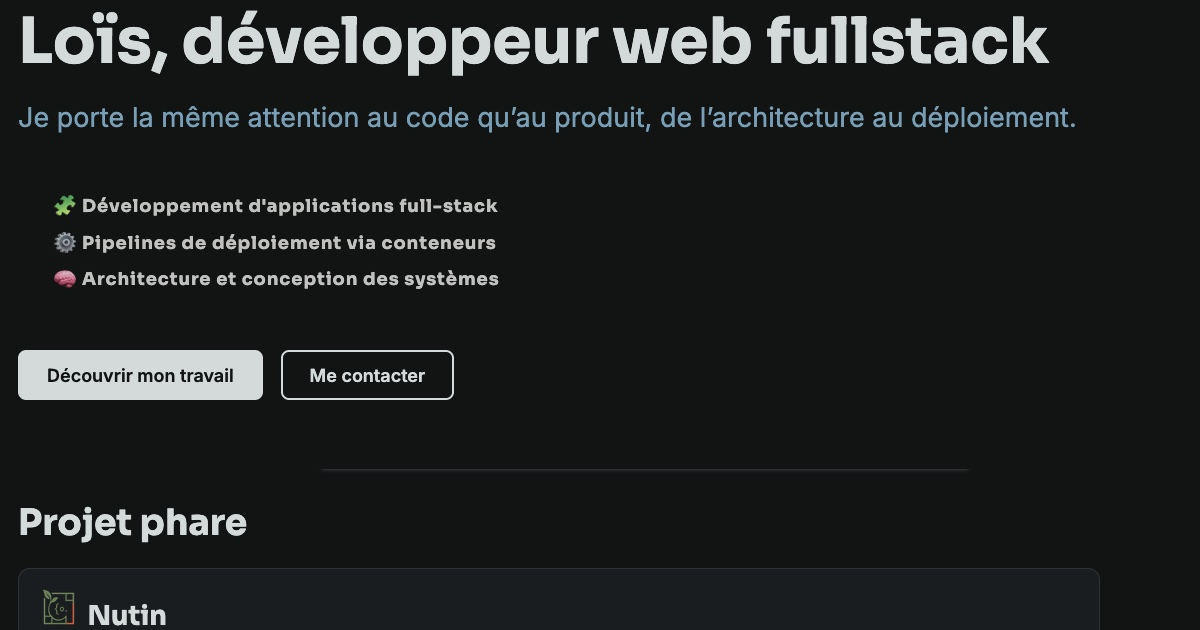
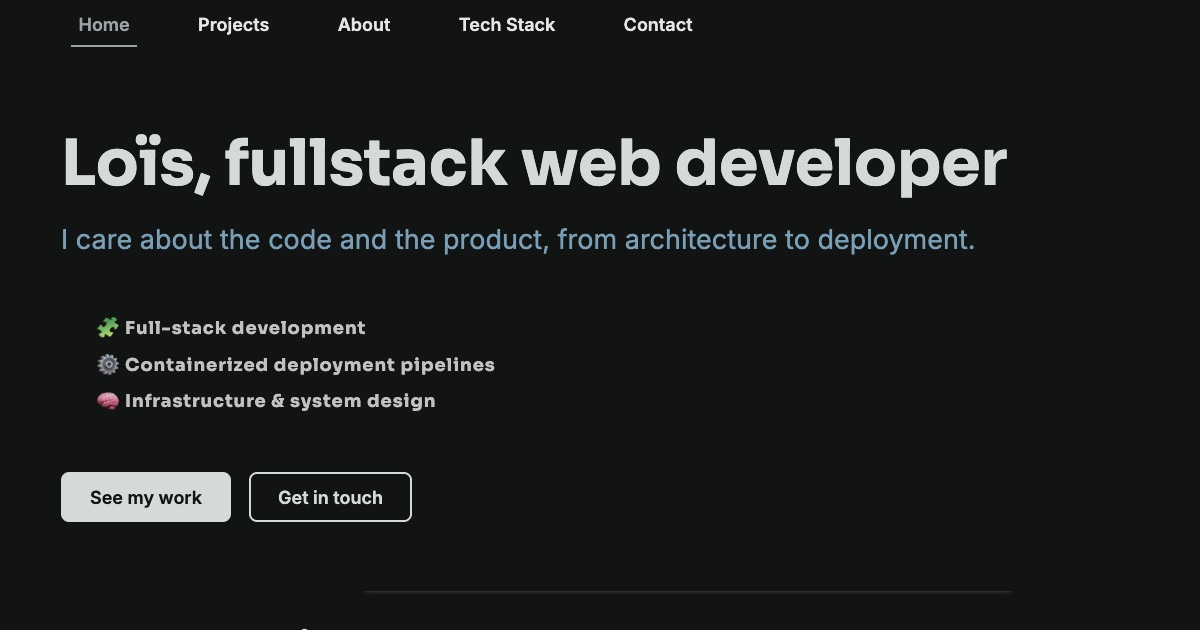
adjusted responsive layout

diff --git a/src/app/components/featured-project/featured-project.component.html b/src/app/components/featured-project/featured-project.component.html
@@ -10,11 +10,11 @@
 		differently, and a too-narrow card let the screen stick out of it.
 		Between the medium and large breakpoints, the card fills the section instead: the text
 		takes the room the screen leaves, the metrics stay on one line, and the screen gives up
-		room (down to 10rem) when they need it. A section narrower than 37rem can't hold both side
-		by side: the card stacks them as on small screens.
+		room (down to 10rem) when they need it. A section narrower than 666px (37rem at the 18px root, in px so it doesn't follow the fluid root) can't hold both side
+		by side: the card stacks them, screen on top. Small screens hide the screen (and its alt text) altogether.
 	-->
-	<div class="card flex w-[calc(var(--fp-text)+2rem+var(--fp-screen)+2.5rem+1px)] max-w-full items-center gap-largest [--card-padding-small:var(--card-padding)] [--fp-inner:calc(100cqw-2.5rem-1px)] [--fp-text:calc(var(--fp-inner)*0.6-2rem)] [--fp-screen:min(calc(var(--fp-inner)*0.4),17rem)] max-medium:flex-col-reverse max-medium:items-stretch max-medium:w-auto not-max-medium:max-large:w-auto @max-[37rem]:flex-col-reverse @max-[37rem]:items-stretch">
-		<div class="flex-[0_0_var(--fp-text)] text-text leading-[1.6] max-medium:flex-none not-max-medium:max-large:@min-[37rem]:flex-[1_1_0] @max-[37rem]:flex-none">
+	<div class="card flex w-[calc(var(--fp-text)+2rem+var(--fp-screen)+2.5rem+1px)] max-w-full items-center gap-largest [--card-padding-small:var(--card-padding)] [--fp-inner:calc(100cqw-2.5rem-1px)] [--fp-text:calc(var(--fp-inner)*0.6-2rem)] [--fp-screen:min(calc(var(--fp-inner)*0.4),17rem)] max-medium:flex-col-reverse max-medium:items-stretch max-medium:w-auto not-max-medium:max-large:w-auto @max-[666px]:flex-col-reverse @max-[666px]:items-stretch">
+		<div class="flex-[0_0_var(--fp-text)] text-text leading-[1.6] max-medium:flex-none not-max-medium:max-large:@min-[666px]:flex-[1_1_0] @max-[666px]:flex-none">
 			<!-- Baseline: the logo's bottom edge sits on the title's text baseline -->
 			<div class="flex items-baseline gap-small mb-small">
 				<img class="flex-none w-auto h-8 max-medium:h-7" src="/assets/images/projects/nutin-logo.avif" alt="" width="252" height="272" decoding="async">
@@ -42,7 +42,7 @@
 				<div data-component="featured-project-link" data-event="click:_onLinkClick:@event"></div>
 			</div>
 		</div>
-		<div class="screen-mock shrink-0 w-[var(--fp-screen)] max-medium:w-full not-max-medium:max-large:shrink not-max-medium:max-large:min-w-[10rem] @max-[37rem]:w-full">
+		<div class="screen-mock shrink-0 w-[var(--fp-screen)] max-medium:hidden not-max-medium:max-large:shrink not-max-medium:max-large:min-w-[10rem] @max-[666px]:w-full">
 			<div data-component="featured-project-picture"></div>
 			<div class="screen-mock-stand"></div>
 		</div>

diff --git a/src/app/views/home/home.view.html b/src/app/views/home/home.view.html
@@ -1,6 +1,6 @@
 <div class="w-full pl-largest max-medium:pl-0">
 	<!-- One vertical spacing between all sections (4rem); a separator sits in its middle, its line at its bottom edge -->
-	<div class="w-[70%] max-medium:w-full [&>*]:pt-16 [&>.separator-line]:pt-0 [&>.separator-line]:mt-[calc(2rem-15px)] [&>.separator-line+*]:pt-largest">
+	<div class="w-[max(70%,min(88%,1300px))] max-medium:w-full [&>*]:pt-16 [&>.separator-line]:pt-0 [&>.separator-line]:mt-[calc(2rem-15px)] [&>.separator-line+*]:pt-largest">
 		<article id="hero"><span data-component="hero"></span></article>
 		<div class="separator-line"></div>
 		<div id="featured"><span data-component="featured-project"></span></div>
@@ -17,8 +17,8 @@
 			<div class="card pt-largest pb-large grid grid-cols-2 gap-x-largest gap-y-medium max-medium:grid-cols-1 max-medium:gap-y-0 [&>article_.info-card]:[--info-card-border:1px_solid_transparent] [&>article_.info-card]:[--info-card-shadow:none]">
 				<!-- Two columns: each article is a subgrid (title + 3 cards), so the cards of a row share their height -->
 				<article id="contact" class="row-span-4 grid grid-rows-subgrid max-medium:row-span-1 max-medium:block"><span data-component="contact" class="contents max-medium:block"></span></article>
-				<!-- One column: Infos follows Contact, separated by a line like the sections -->
-				<article id="infos" class="row-span-4 grid grid-rows-subgrid max-medium:row-span-1 max-medium:block separator-line-before max-medium:order-2 max-medium:pt-[calc(2rem-15px)] max-medium:before:content-[''] max-medium:before:mb-largest"><span data-component="infos" class="contents max-medium:block"></span></article>
+				<!-- One column: Infos follows Contact (and its résumé card) -->
+				<article id="infos" class="row-span-4 grid grid-rows-subgrid max-medium:row-span-1 max-medium:block max-medium:order-2 max-medium:pt-largest"><span data-component="infos" class="contents max-medium:block"></span></article>
 				<!-- Contact's résumé card, across both columns; one column: right after Contact -->
 				<div class="col-span-full mt-small max-medium:order-1 max-medium:mt-0"><span data-component="resume-card"></span></div>
 			</div>

diff --git a/src/app/components/common/anchor/cta-classes.ts b/src/app/components/common/anchor/cta-classes.ts
@@ -1,6 +1,6 @@
 // Classes for an AnchorComponent styled as a call-to-action button.
 // They target the <a> inside <a11y-anchor> (display: contents, so the links are the flex items)
-export const ctaClass = 'block no-underline py-small px-large border-2 border-primary rounded-large text-medium font-semibold text-center transition-[background-color,color,transform] duration-fast ease-in-out will-change-transform hover:[transform:translateY(-2px)] focus-visible:outline-2 focus-visible:outline-primary focus-visible:outline-offset-2 max-medium:flex-[1_1_calc(50%-0.5rem)] motion-reduce:transition-none motion-reduce:hover:[transform:none]';
+export const ctaClass = 'block no-underline whitespace-nowrap py-small px-large border-2 border-primary rounded-large text-medium font-semibold text-center transition-[background-color,color,transform] duration-fast ease-in-out will-change-transform hover:[transform:translateY(-2px)] focus-visible:outline-2 focus-visible:outline-primary focus-visible:outline-offset-2 max-medium:flex-[1_1_calc(50%-0.5rem)] motion-reduce:transition-none motion-reduce:hover:[transform:none]';
 
 export const ctaFilledClass = `${ctaClass} bg-primary text-background hover:bg-transparent hover:text-primary`;
 

diff --git a/src/app/components/tech-stack/tech-stack.component.html b/src/app/components/tech-stack/tech-stack.component.html
@@ -8,7 +8,7 @@
 				<svg class="card-icon" viewBox="0 0 24 24" aria-hidden="true">${raw(group.icon)}</svg>
 				<h3 class="card-title" data-i18n="tech-stack.${group.name}-title"></h3>
 			</div>
-			<div class="svgs__container flex-wrap items-start gap-large pt-small max-medium:gap-medium *:min-w-16 [&_.svg-tech-label]:pt-small [&_.svg-tech-label]:text-[0.8rem] [&_.svg-tech-label]:font-bold [&_.svg-tech-label]:opacity-75" data-catalog="${group.name}-badges"></div>
+			<div class="svgs__container flex-nowrap items-start gap-large pt-small max-medium:gap-medium *:min-w-16 max-medium:*:min-w-0 max-medium:*:flex-[1_1_0] max-medium:*:max-w-20 max-medium:[&_.svg-tech-label]:tracking-normal [&_.svg-tech-label]:pt-small [&_.svg-tech-label]:text-[0.8rem] [&_.svg-tech-label]:font-bold [&_.svg-tech-label]:opacity-75" data-catalog="${group.name}-badges"></div>
 		</div>`)}
 	</div>
 </div>

diff --git a/src/app/components/common/tabs/tabs.component.html b/src/app/components/common/tabs/tabs.component.html
@@ -1,4 +1,4 @@
-<div class="section-header flex items-center justify-between gap-medium">
+<div class="section-header flex items-center justify-between gap-medium max-medium:flex-col max-medium:items-start max-medium:gap-small">
 	<h2 data-i18n="${config.titleI18nKey}"></h2>
 	<select class="tabs__picker select-chevron hidden max-medium:block shrink-0 py-smallest pr-[2.25rem] pl-medium border border-border-strong rounded-pill bg-surface text-text text-small font-semibold leading-[1.6] cursor-pointer focus-visible:outline-2 focus-visible:outline-primary focus-visible:outline-offset-2" aria-label="${I18nService.translate(config.labelI18nKey)}" data-event="change:_onPick:@target">
 		${config.tabs.map((tab) => html`<option value="${tab.name}" data-i18n="${tab.i18nKey}"></option>`)}

diff --git a/src/styles/tailwind.css b/src/styles/tailwind.css
@@ -188,7 +188,8 @@
     --border: #D5D7D4;
     --border-strong: #808786;
     --overlay: #17191A99;
-    font-size: 18px;
+    /* fluid: 16px at 576px and below, 18px from 1450px up; rem so it follows the browser font setting */
+    font-size: clamp(1rem, 0.9176rem + 0.2288vw, 1.125rem);
   }
 
   :root .dark-theme {
@@ -587,10 +588,8 @@
     }
   }
 
-  /* Home sections' separator: a soft line at the bottom edge of a --separator-height box.
-     .separator-line-before draws it as the element's ::before (give that a content) */
-  .separator-line,
-  .separator-line-before::before {
+  /* Home sections' separator: a soft line at the bottom edge of a --separator-height box */
+  .separator-line {
     --separator-height: 15px;
     display: block;
     width: 50%;

diff --git a/src/app/components/common/tech/tech-badge/tech-badge.component.html b/src/app/components/common/tech/tech-badge/tech-badge.component.html
@@ -4,5 +4,5 @@
     class="base-svg svg-${_config.svgKey ?? _config.value}"
   ></span>
   <span class="svg-tech-label font-secondary tracking-[0.1em] text-smallest">${_config.label}</span>
-  <span data-optional="${_config.proficiency}" data-i18n="tech-badge.${_config.proficiency}" class="text-[0.65rem] whitespace-nowrap text-center ${_config.proficiency === 'primary' ? 'text-accent font-semibold' : 'text-text-muted'}"></span>
+  <span data-optional="${_config.proficiency}" data-i18n="tech-badge.${_config.proficiency}" class="text-[0.65rem] text-balance text-center ${_config.proficiency === 'primary' ? 'text-accent font-semibold' : 'text-text-muted'}"></span>
 </span>
